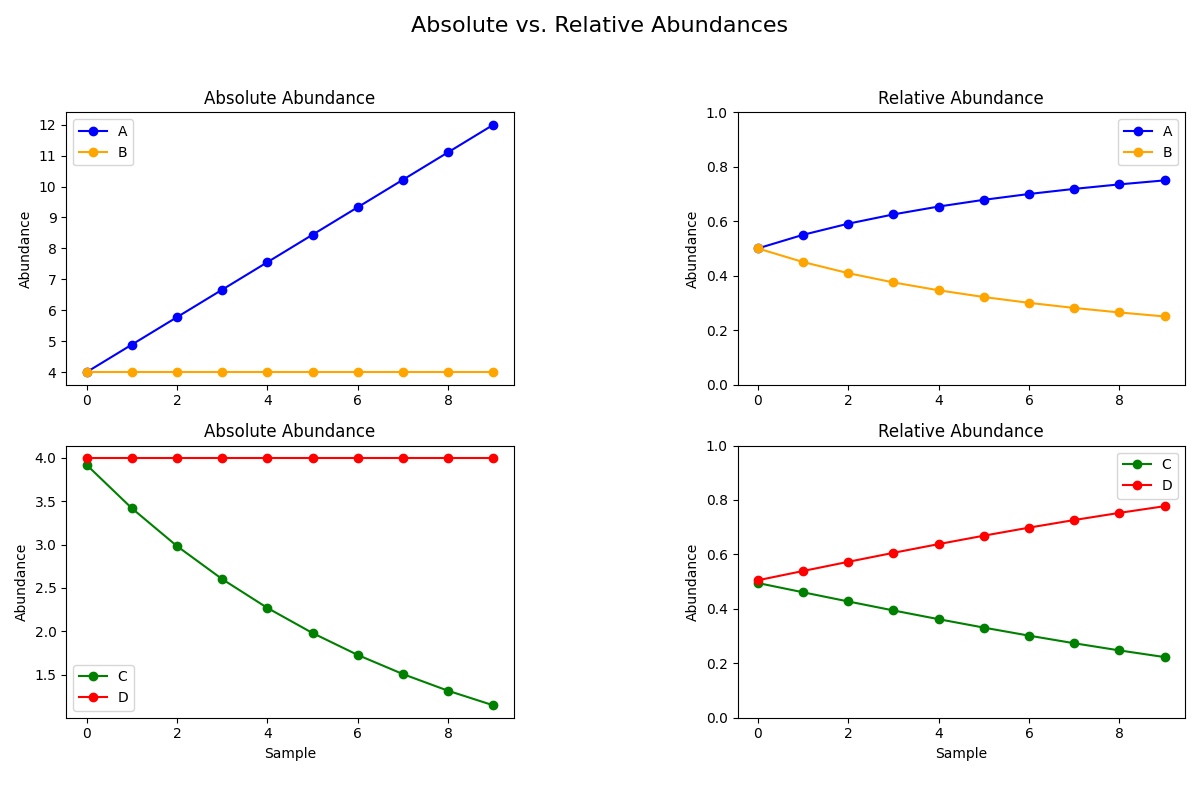
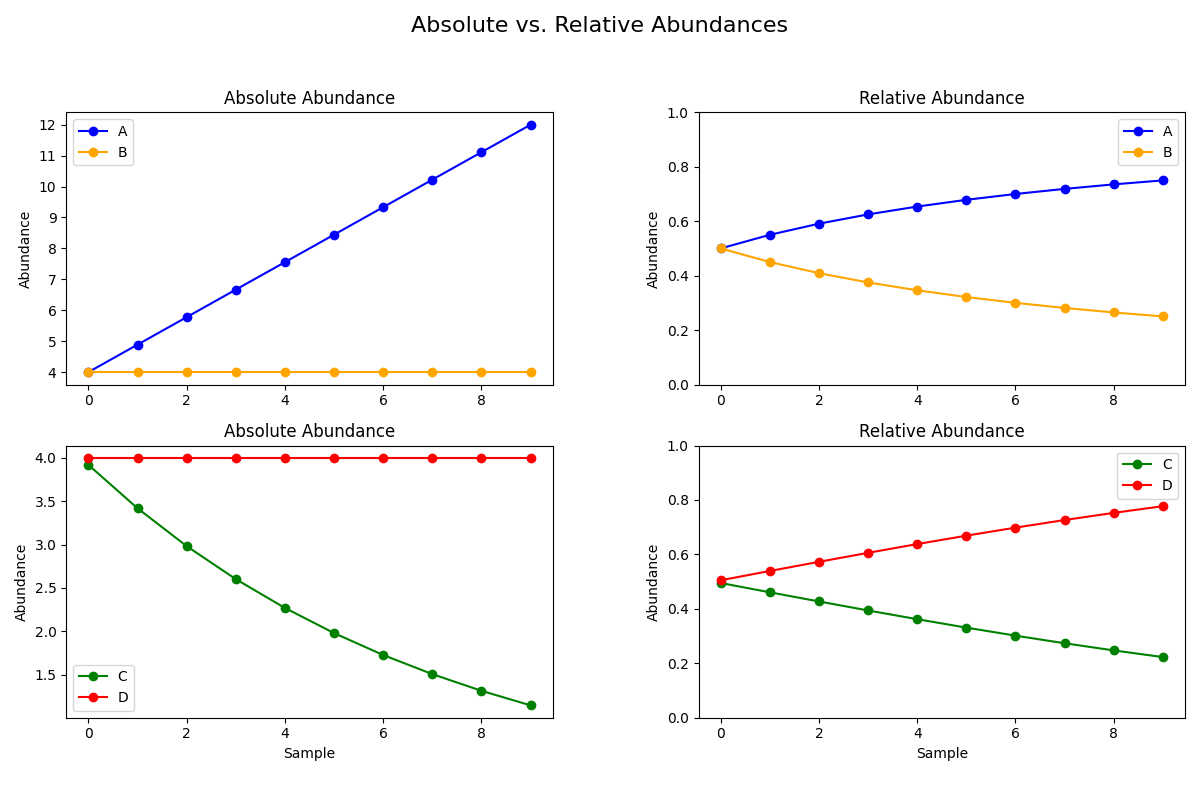
updating automl script

diff --git a/src/DML_parallel_automl.py b/src/DML_parallel_automl.py
@@ -142,7 +142,7 @@ if __name__ == "__main__":
         exit(1)
 
     try:
-        seed, learner_type, learner_settings = read_ini_file(config, file=config_file)
+        seed, learner_type, learner_settings = read_ini_file(config, file=config_file, automl=True)
     except Exception as e:
         print("Could not parse settings file\n", type(e), e)
         exit(1)

diff --git a/src/compositional_data.py b/src/compositional_data.py
@@ -58,7 +58,7 @@ axs[1, 1].legend()
 
 plt.tight_layout(rect=[0, 0.03, 1, 0.95])
 
-plt.subplots_adjust(wspace=0.5)  # Increase from default (~0.2)
+plt.subplots_adjust(wspace=0.3)  # Increase from default (~0.2)
 
 plt.savefig("../figures/compositional_data.png")
 plt.show()
